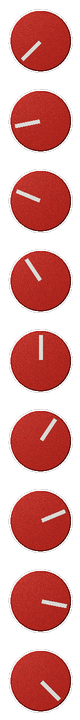
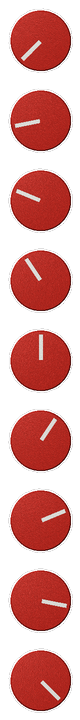
Regenerate with the eye on the HMF row

diff --git a/tools/make-assets.py b/tools/make-assets.py
@@ -72,7 +72,11 @@ SUPERSAMPLE = 2
 # degree on the outermost knobs, which is enough to read as depth and not enough
 # to look like a fisheye.
 VIEWER_DISTANCE = 32000.0
-PANEL_EYE = (512.0, 768.0)      # where the viewer is centred, in art pixels
+# Eye height is on the HMF row, not the geometric middle of the panel. Ronald's
+# call: that is where you actually look when the thing is in front of you, a bit
+# above centre. It also spreads the vertical lean more evenly across the four
+# bands than centring on the panel did.
+PANEL_EYE = (512.0, 647.0)      # HMF row; x is the panel centre
 
 CAP_SATURATION = 1.30   # how far past the painted colour the caps are pushed
 
